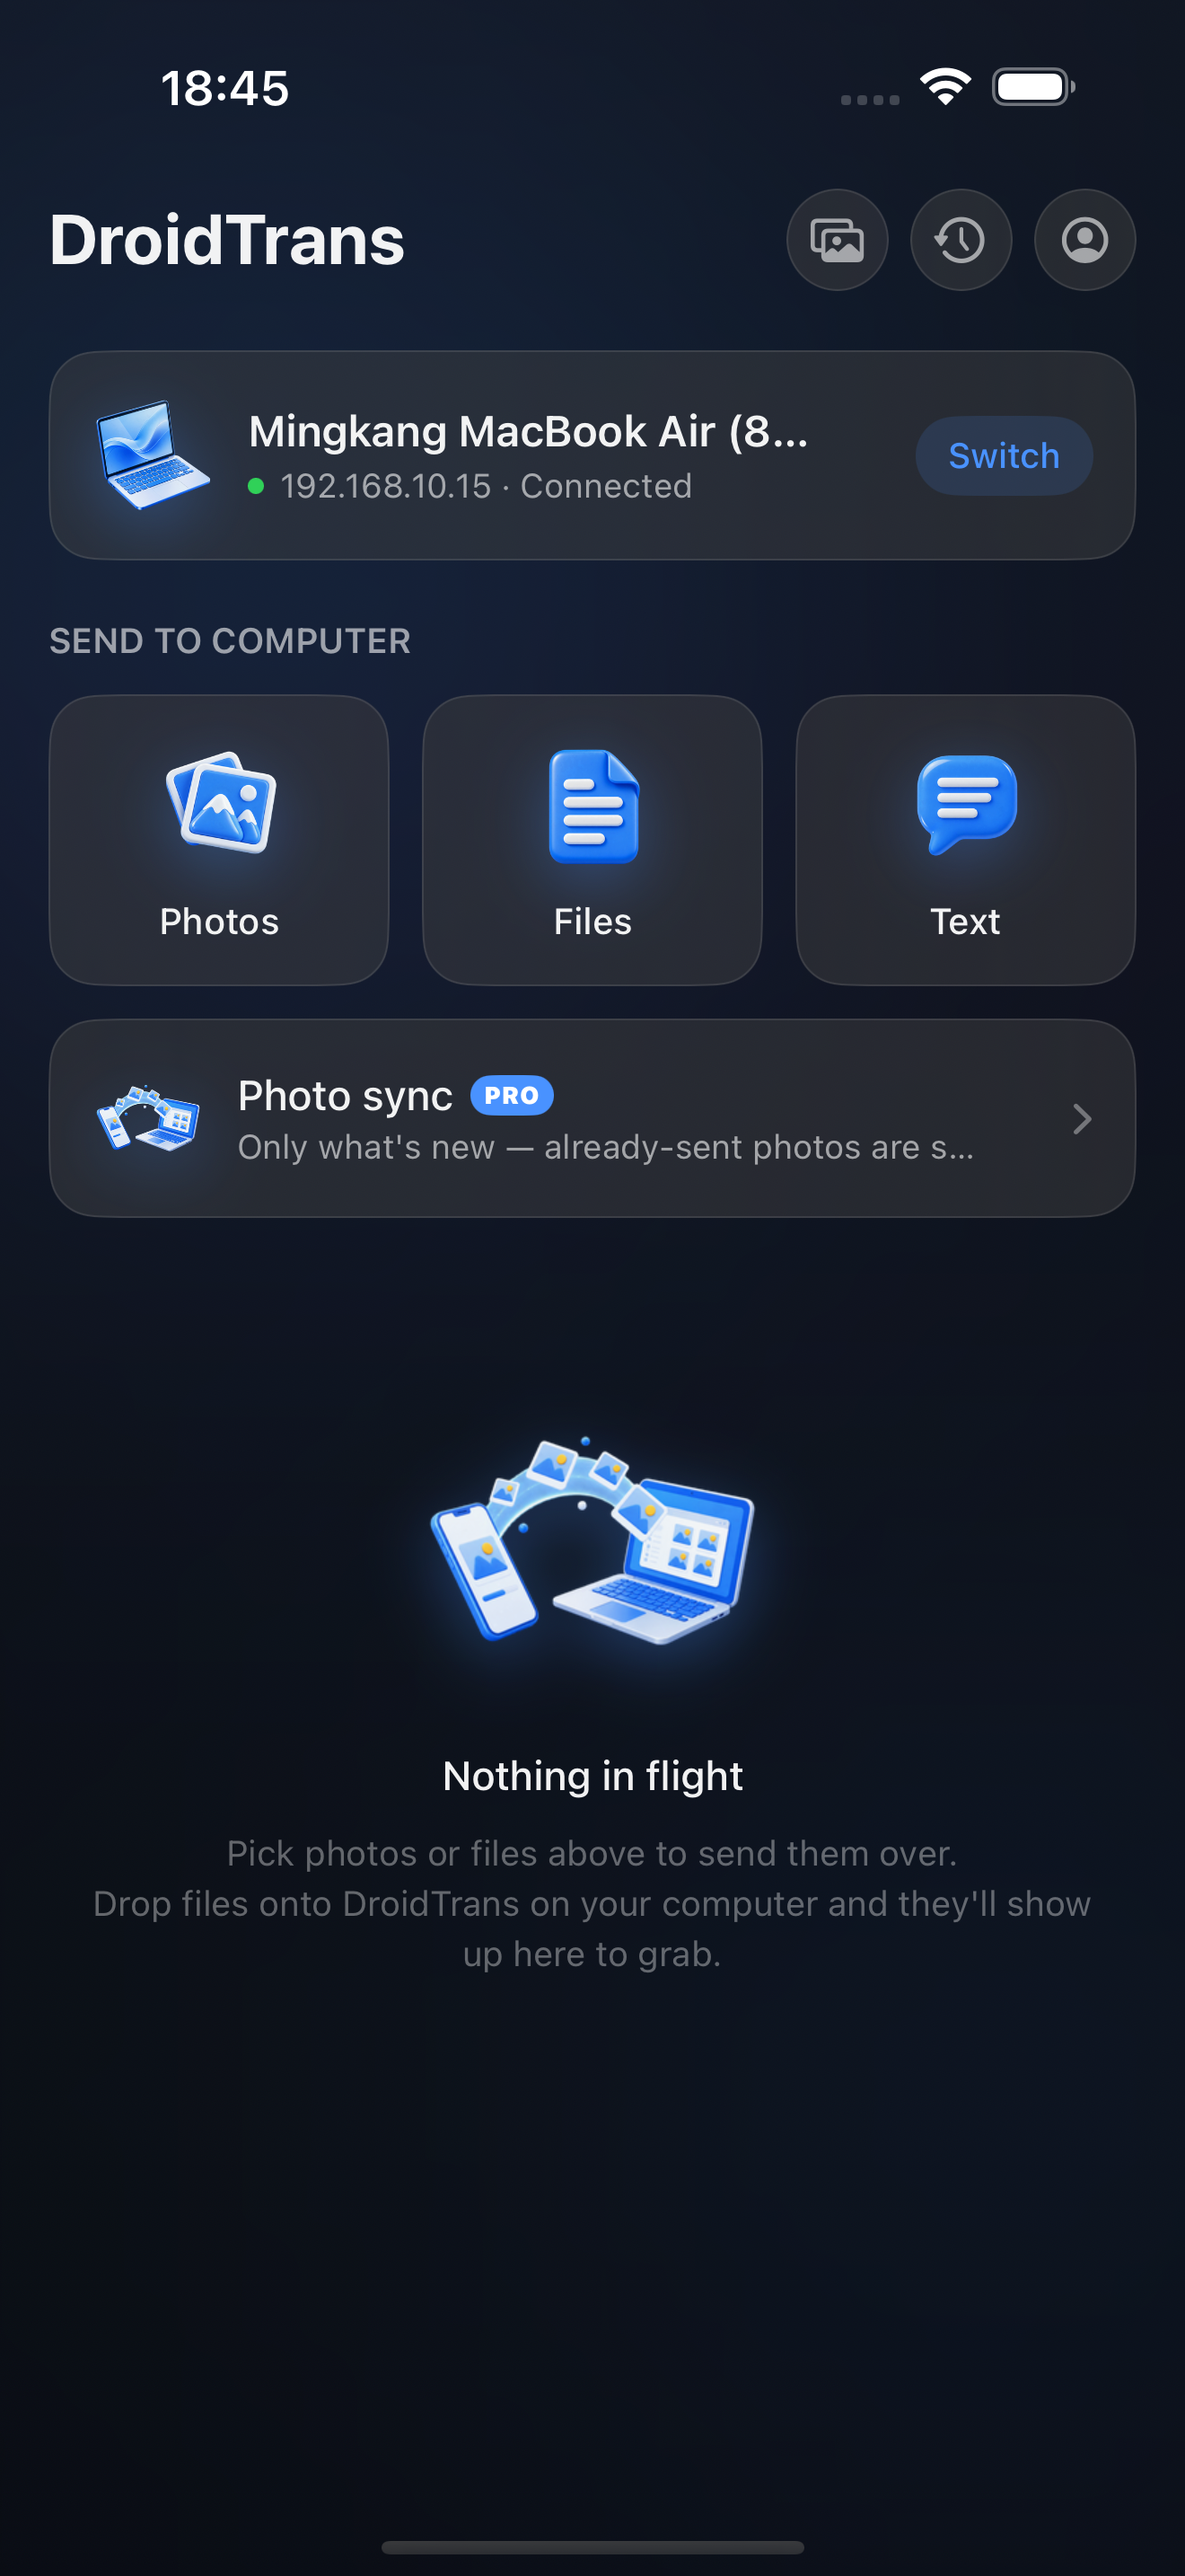
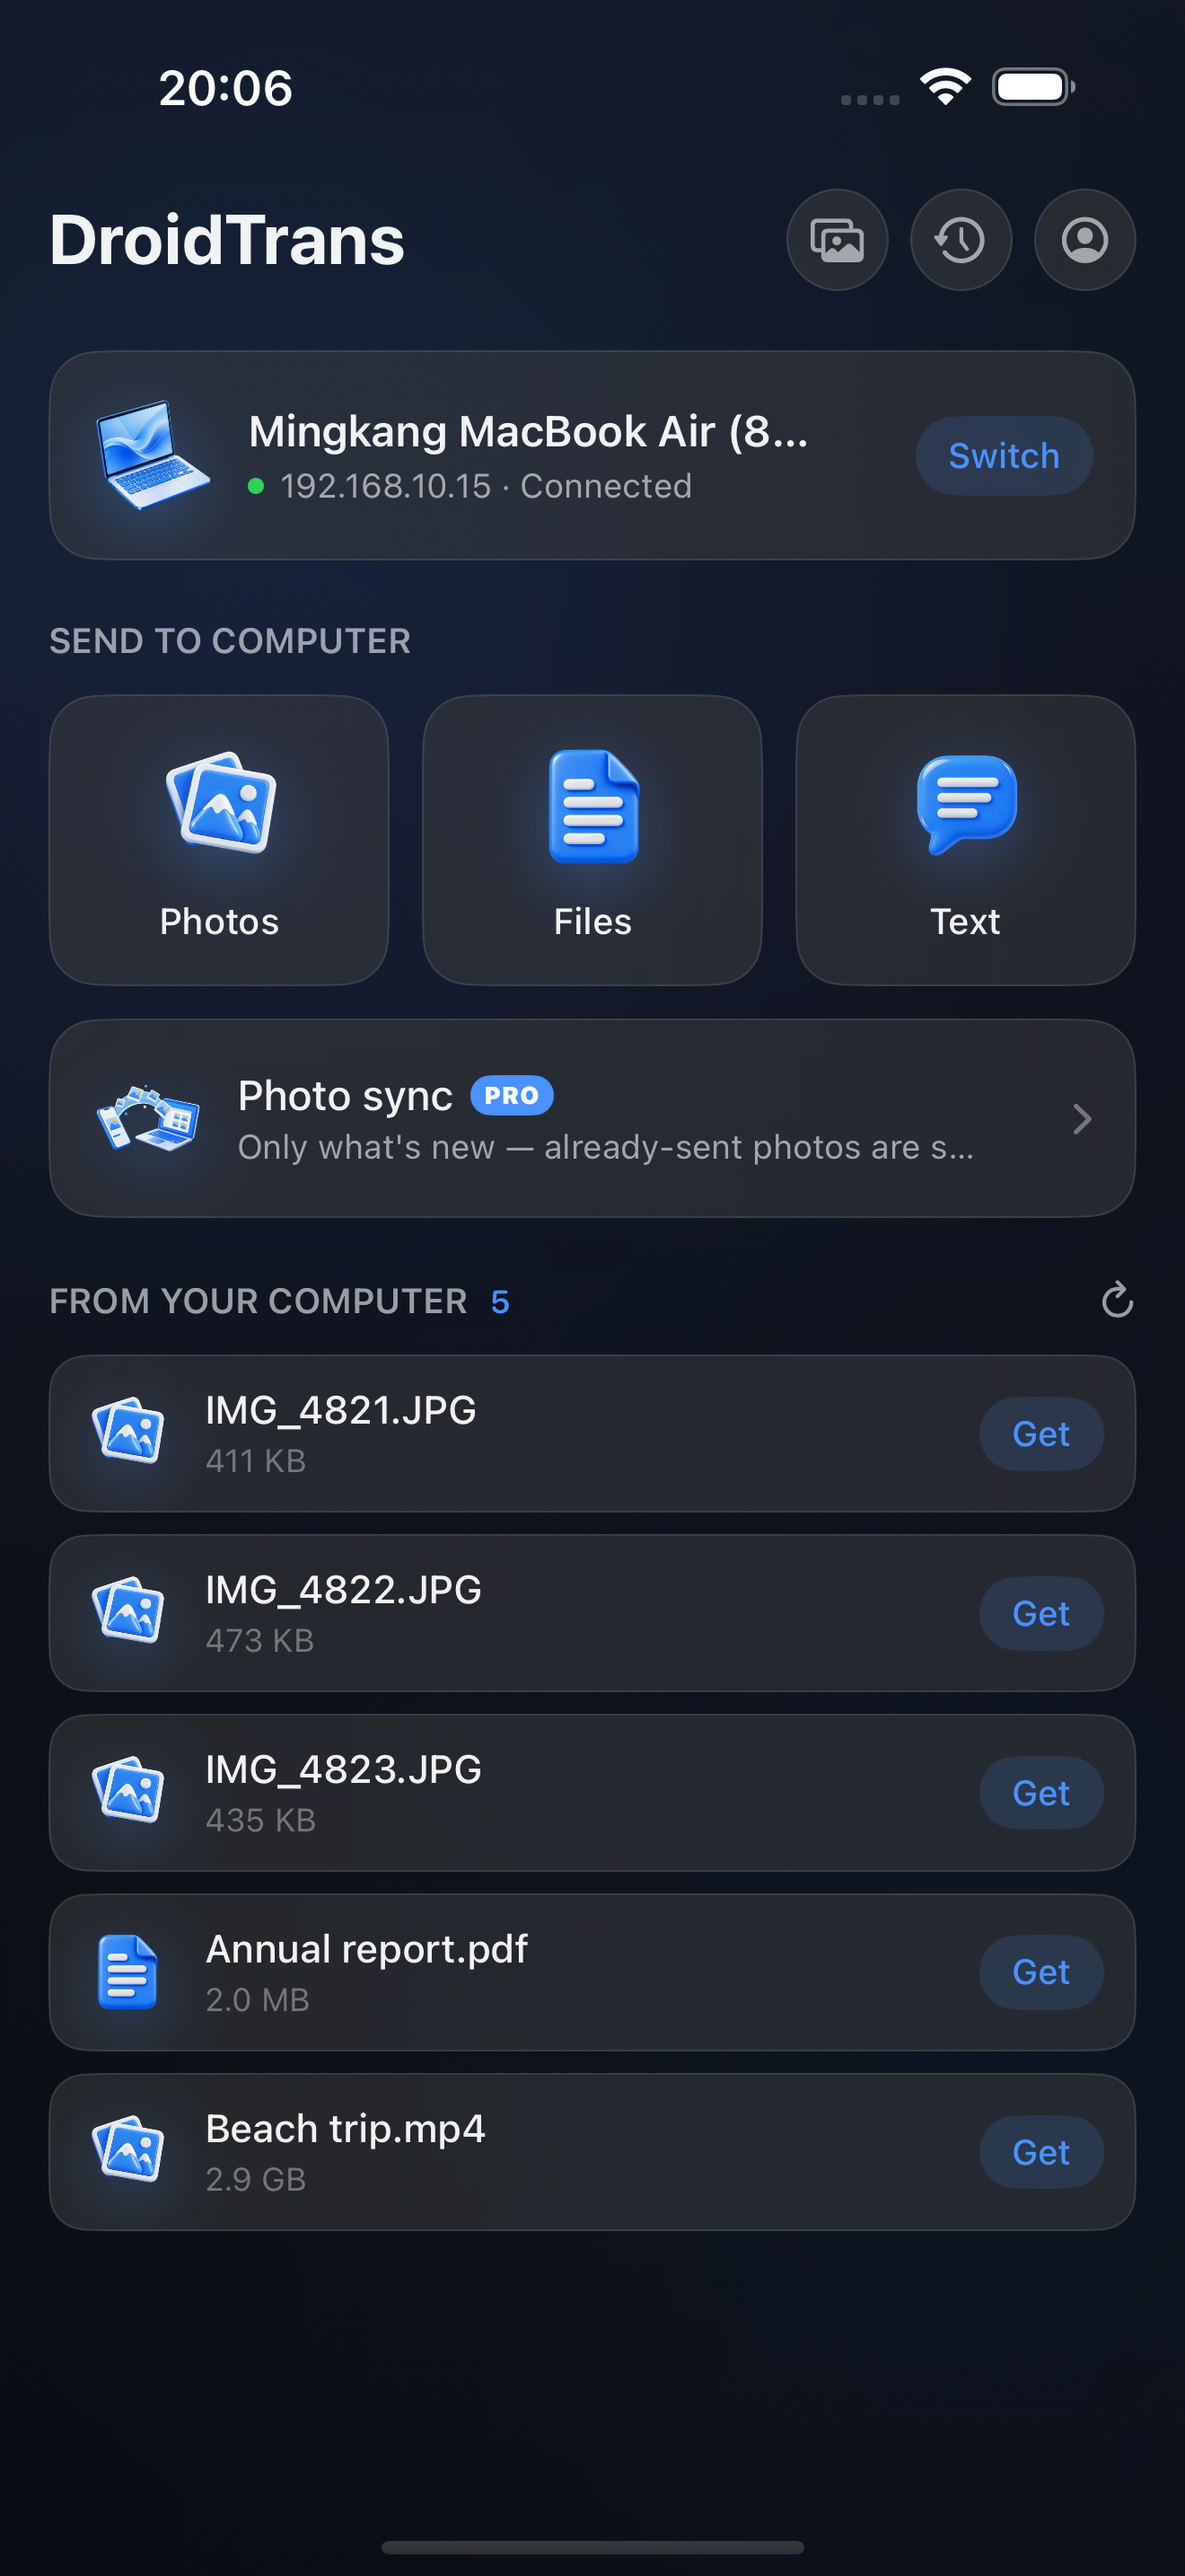
fix: 上架截图改成先讲功能，并补上传输中的进度文字
## 截图：前三张全是付费页是浪费

App Store 搜索结果只展示前三张，而原来那三张是「会员页、首页、我的」——
两张在讲钱。用户扫过去看到的全是付费页，最贵的三个位置全浪费了。

而且除首页外每一屏都是空的：模拟器里没有任何数据，图库、传输记录
截出来是一排「还没有…」，等于告诉用户这个 App 什么都没有。

重排成五张，会员页放最后：
  雷达发现电脑 → 传输进行中 → 图库 → 传输记录 → 会员页

截图流程也改成按真实使用顺序走一遍：先真的取几个文件，把图库和
记录填上，再截。素材用出图服务生成的照片，不用任何真实个人照片 ——
那会随截图公开到 App Store。

## -uitest-fresh 没清干净

它只清配对，不清传输记录和取回的文件。于是每跑一次用例就往里多攒
几条：出截图时「传输记录」是同一个文件重复四遍，一看就是假数据，
用例之间也不是干净状态，「空态长什么样」这条永远测不到。

## 传输中看不见传了多少

进度条一根，文件多大、传到哪儿了全看不见。取一个几 GB 的视频时，
用户盯着一根几乎不动的条，不知道是卡住了还是文件本来就大。
改成「1.26 GB / 3.15 GB · 40%」。

## 其他

- 截图脚本支持 SHOT_SIZE 和 SHOT_LANG：6.9″/6.5″、中/英各一条命令。
  App Store Connect 的槽位给的是哪个尺寸不一定，两套都备好。
- 版本号 1.0（与 App Store Connect 上的版本一致）。

Claude-Session: https://claude.ai/code/session_01KepLvi3rAX2AMtnXA18gbr

Changed region(s): [[0.0311, 0.4965, 0.9629, 0.8689], [0.1242, 0.031, 0.2485, 0.0621], [0.9318, 0.4965, 0.9629, 0.5275]]

diff --git a/ios/DroidTransUITests/ScreenshotTests.swift b/ios/DroidTransUITests/ScreenshotTests.swift
@@ -58,20 +58,94 @@ final class ScreenshotTests: XCTestCase {
     }
 
     func testCaptureKeyScreens() throws {
-        // 截的是「还没买过」的样子 —— 那才是新用户看到的界面。
-        // 不清的话上一次购买留下的许可证会让 Pro 页变成「已激活」。
+        // 上架截图按真实使用顺序走一遍，而不是逐个界面拍空壳。
+        //
+        // 之前三张里两张在讲钱（会员页 + 我的），只有一张讲功能，而搜索
+        // 结果只展示前三张 —— 用户扫过去看到的全是付费页。而且历史记录、
+        // 图库那几屏当时都是空的：模拟器里没有任何数据，截出来是一排
+        // 「还没有…」，等于告诉用户这个 App 什么都没有。
+        //
+        // 所以这里先真的取一次文件，把图库和记录填上，再截。
+        // 电脑端的待取清单由外部先放好（见 README 的出图步骤）。
         let app = try launchConnected(["-uitest-fresh", "-uitest-no-license"] + Self.desktopArgs + Self.langArgs)
-        let me = app.buttons["open-me"]
-        XCTAssertTrue(me.waitForExistence(timeout: 10))
+        XCTAssertTrue(app.buttons["open-gallery"].waitForExistence(timeout: 12), "没进到主界面")
+
+        // ① 主界面：电脑已连上，待取的文件列在下面 —— 一眼看懂这个 App 干什么
         shot(app, "01-home")
 
-        me.tap()
-        XCTAssertTrue(app.buttons["open-pro"].waitForExistence(timeout: 5))
-        shot(app, "02-me")
+        // ② 传输中：点「取回」，进度条正在跑的样子。
+        //    静态界面看不出这是个传输工具，这一张是最能说明问题的。
+        // 先把几个小的取回来 —— 图库和记录要有内容，而且要是不同的文件。
+        // 只取一个大文件的话，记录里就孤零零一条，图库也只有一个东西。
+        let smalls = app.buttons.matching(identifier: "outbox-get")
+        if smalls.firstMatch.waitForExistence(timeout: 5) {
+            for i in 0..<min(4, smalls.count) {
+                let b = smalls.element(boundBy: i)
+                if b.exists && b.isHittable {
+                    b.tap()
+                    Thread.sleep(forTimeInterval: 1.2)
+                }
+            }
+        }
 
-        app.buttons["open-pro"].tap()
-        XCTAssertTrue(app.buttons["plan-lifetime"].waitForExistence(timeout: 10))
-        shot(app, "03-pro")
+        // 点最后一个 —— 清单按加入顺序排，大文件放在最后。
+        // 点第一个（一两 MB）本机瞬间就传完，截到的是「已完成」，
+        // 而这一张要的就是进度条正在跑的样子。
+        let gets = app.buttons.matching(identifier: "outbox-get")
+        if gets.firstMatch.waitForExistence(timeout: 5), gets.count > 0 {
+            let get = gets.element(boundBy: gets.count - 1)
+            get.tap()
+            // 等进度真的动起来再截，不然截到的是刚点下去还没开始的那一帧
+            Thread.sleep(forTimeInterval: 2.5)
+            shot(app, "02-transfer")
+            // 别等它传完 —— 3 GB 要好一会儿，而图库和记录已经有前几次的
+            // 内容了。取消掉，免得后面的截图上一直挂着一条传输中。
+            Thread.sleep(forTimeInterval: 2)
+        }
+
+        // ③ 图库：取回来的东西躺在这儿，有内容才有说服力
+        if app.buttons["open-gallery"].waitForExistence(timeout: 5) {
+            app.buttons["open-gallery"].tap()
+            Thread.sleep(forTimeInterval: 1)
+            shot(app, "03-gallery")
+            dismissTop(app)
+        }
+
+        // ④ 传输记录
+        if app.buttons["open-history"].waitForExistence(timeout: 5) {
+            app.buttons["open-history"].tap()
+            Thread.sleep(forTimeInterval: 1)
+            shot(app, "04-history")
+            dismissTop(app)
+        }
+
+        // ⑤ 会员页排最后。它是「看完功能之后」才该出现的东西。
+        if app.buttons["open-me"].waitForExistence(timeout: 5) {
+            app.buttons["open-me"].tap()
+            if app.buttons["open-pro"].waitForExistence(timeout: 5) {
+                app.buttons["open-pro"].tap()
+                XCTAssertTrue(app.buttons["plan-lifetime"].waitForExistence(timeout: 10))
+                shot(app, "05-pro")
+            }
+        }
+    }
+
+    /// 雷达页单独截 —— 它是连接之前的那一屏，进了主界面就回不去了。
+    func testCaptureRadar() throws {
+        let app = XCUIApplication()
+        app.terminate()
+        app.launchArguments = ["-uitest-fresh", "-uitest-no-license"] + Self.langArgs
+        app.launch()
+        _ = app.wait(for: .runningForeground, timeout: 10)
+
+        // 启动页 →「和电脑传」→ 雷达开始扫描
+        if app.buttons["start-desktop"].waitForExistence(timeout: 8) {
+            app.buttons["start-desktop"].tap()
+        }
+        // 等雷达上真的出现电脑再截，空雷达截出来没有意义
+        _ = app.buttons["radar-node"].firstMatch.waitForExistence(timeout: 25)
+        Thread.sleep(forTimeInterval: 0.8)
+        shot(app, "00-radar")
     }
 
     /// 把剩下的界面也截出来。

diff --git a/ios/DroidTrans/Features/Home/HomeScreen.swift b/ios/DroidTrans/Features/Home/HomeScreen.swift
@@ -455,7 +455,16 @@ private struct InboxRow: View {
                     .truncationMode(.middle)
 
                 if let progress {
+                    // 进度条 + 「传了多少 / 共多少」。
+                    //
+                    // 原来传输中只剩一根进度条，文件多大、传到哪儿了全看不见 ——
+                    // 取一个几 GB 的视频时，用户盯着一根几乎不动的条，
+                    // 不知道是卡住了还是文件本来就大。
                     ProgressView(value: progress).tint(.brand)
+                    Text(progressText(progress))
+                        .font(.system(size: 11.5))
+                        .foregroundStyle(Color.ink3)
+                        .monospacedDigit()
                 } else {
                     Text(detail)
                         .font(.system(size: 12))
@@ -477,10 +486,23 @@ private struct InboxRow: View {
                         .background(Color.brand.opacity(item.isMissing ? 0 : 0.14), in: Capsule())
                 }
                 .disabled(item.isMissing)
+                .accessibilityIdentifier("outbox-get")
             }
         }
         .padding(Space.m)
         .glass(radius: Radius.tile)
+    }
+
+    /// 「1.4 GB / 2.9 GB · 48%」。百分比单独给一份 —— 文件很大时
+    /// 进度条一分钟才动一格，光看条会以为卡死了。
+    private func progressText(_ p: Double) -> String {
+        let total = max(item.size, 0)
+        let done = Int64(Double(total) * min(max(p, 0), 1))
+        return "\(byteText(done)) / \(byteText(total)) · \(Int(p * 100))%"
+    }
+
+    private func byteText(_ n: Int64) -> String {
+        ByteCountFormatter.string(fromByteCount: n, countStyle: .file)
     }
 
     /// 按扩展名挑素材。认不出来就用文件那张。

diff --git a/ios/DroidTrans/App/AppState.swift b/ios/DroidTrans/App/AppState.swift
@@ -201,6 +201,19 @@ final class AppState: ObservableObject {
         // UI 测试要从干净状态起步，自动重连会让雷达页整个跳过去
         if ProcessInfo.processInfo.arguments.contains("-uitest-fresh") {
             store.resetForTesting()
+            // 传输记录也要清。它原来不清 —— 于是每跑一次用例就往里多攒几条，
+            // 出上架截图时「传输记录」那一屏是同一个文件重复四遍，
+            // 一看就是假数据；用例之间也不再是干净状态。
+            History.shared.clear()
+            // 取回来的文件也清掉。同理：不清的话「图库」那一屏会把
+            // 历次用例留下的东西全堆在一起，出上架截图时混着一堆
+            // 陈年测试文件，也让「空态长什么样」这条永远测不到。
+            let docs = FileManager.default
+                .urls(for: .documentDirectory, in: .userDomainMask)[0]
+            for f in (try? FileManager.default.contentsOfDirectory(
+                        at: docs, includingPropertiesForKeys: nil)) ?? [] {
+                try? FileManager.default.removeItem(at: f)
+            }
             await connectForTesting()
             return
         }

diff --git a/ios/Tools/appstore-shots.py b/ios/Tools/appstore-shots.py
@@ -19,17 +19,25 @@ import os
 W, H = (int(x) for x in os.environ.get("SHOT_SIZE", "1320x2868").split("x"))
 
 # 每张图：原始截图、主标题、副标题。
-# 顺序即 App Store 里的展示顺序 —— 会员页排第一，那是这次上架要讲的东西。
+#
+# 顺序即 App Store 里的展示顺序，**搜索结果只展示前三张** ——
+# 所以前三张必须讲功能。之前是「会员页、首页、我的」，三张里两张在讲钱，
+# 用户扫过去看到的全是付费页，等于把最贵的三个位置浪费掉了。
+# 会员页挪到最后：它是看完功能之后才该出现的东西。
 SHOTS = {
     "zh": [
-        ("03-pro",  "实况照片<br>完整导出", "一次买断，不是订阅"),
-        ("01-home", "手机与电脑<br>双向传输", "照片、视频、文档、压缩包"),
-        ("02-me",   "一次购买<br>三端通用", "macOS、Android、iOS"),
+        ("00-radar",    "打开就找到<br>你的电脑", "同一个 Wi-Fi，点一下连上"),
+        ("02-transfer", "几个 GB<br>一口气传完", "断了从断点接着传，不用重来"),
+        ("03-gallery",  "取回来的<br>都在这儿", "照片、视频、文档、压缩包"),
+        ("04-history",  "传过什么<br>一目了然", "原图原视频，不转码不压缩"),
+        ("05-pro",      "一次买断<br>不是订阅", "基础传输永远免费"),
     ],
     "en": [
-        ("03-pro",  "Complete<br>Live Photo export", "One-time purchase. No renewal."),
-        ("01-home", "Phone and computer,<br>both directions", "Photos, video, documents, archives"),
-        ("02-me",   "One purchase,<br>three platforms", "macOS, Android and iOS"),
+        ("00-radar",    "Finds your<br>computer at once", "Same Wi-Fi, one tap to connect"),
+        ("02-transfer", "Gigabytes,<br>in one go", "Drops out? It resumes, never restarts"),
+        ("03-gallery",  "Everything you<br>pulled back", "Photos, video, documents, archives"),
+        ("04-history",  "See exactly<br>what moved", "Originals — no transcoding, no loss"),
+        ("05-pro",      "One-time purchase<br>Not a subscription", "Basic transfer is always free"),
     ],
 }
 
@@ -98,7 +106,7 @@ async def main():
                 await page.set_content(html)
                 await page.wait_for_timeout(300)
                 sub = lang if (W, H) == (1320, 2868) else f"{lang}-{W}x{H}"
-                dst = out / sub / f"{i}-{name.split('-')[1]}.png"
+                dst = out / sub / f"{i}-{name.split('-', 1)[1]}.png"
                 dst.parent.mkdir(parents=True, exist_ok=True)
                 await page.screenshot(path=str(dst))
                 print("✓", dst.relative_to(ROOT))
